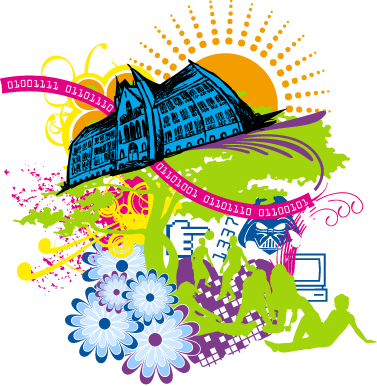
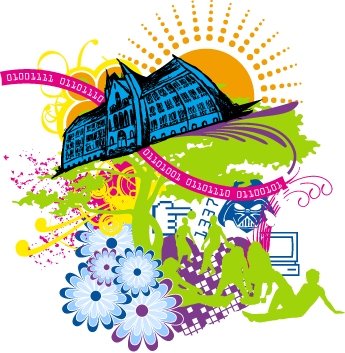
Adjusted size and position of the illustration for Fadderukene.

diff --git a/css/main.css b/css/main.css
@@ -127,7 +127,7 @@ footer p {
 	height: 400px;
 }
 .fadderukene {
-	background: url(../graphics/fadderukene.png) no-repeat 0 10px;
+	background: url(../graphics/fadderukene.png) no-repeat 0 30px;
 	height: 400px;
 }
 .mer {
